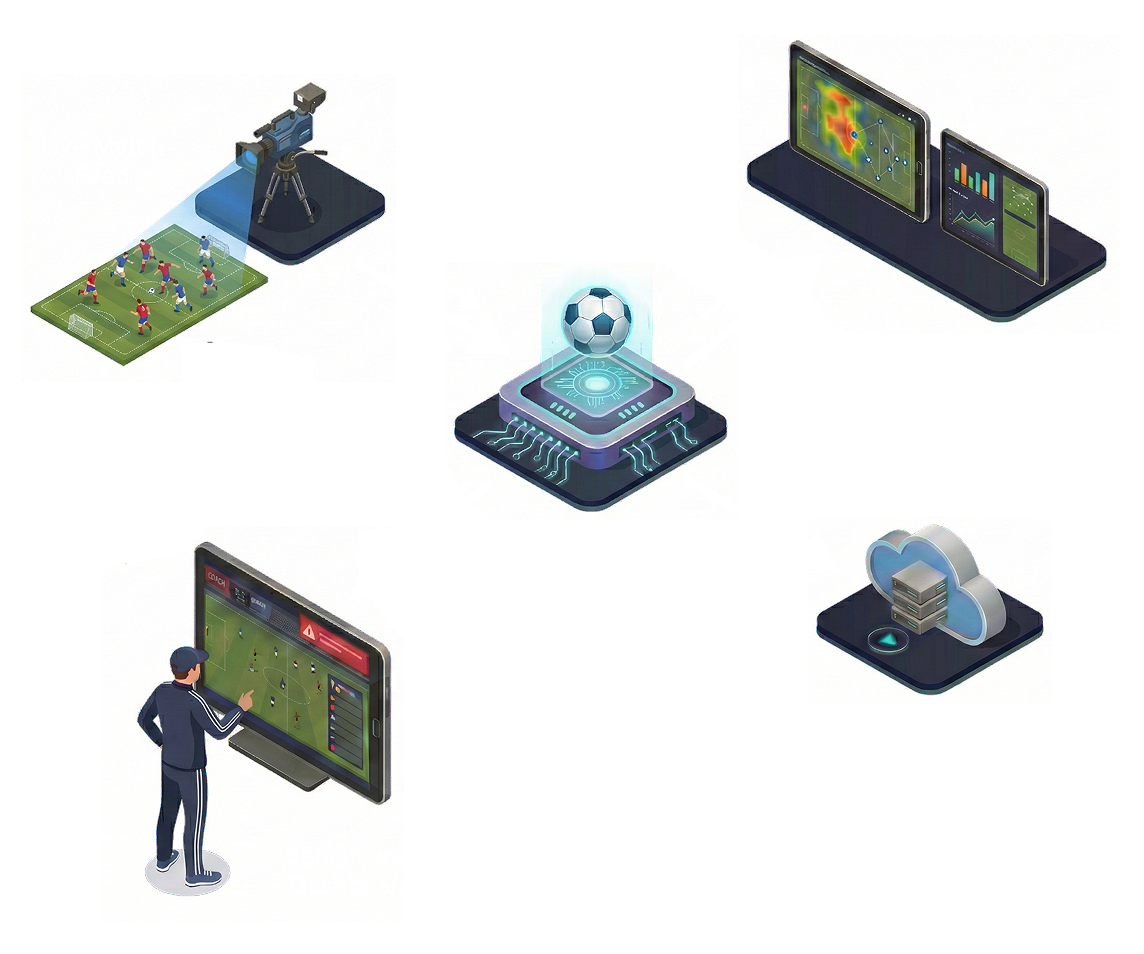
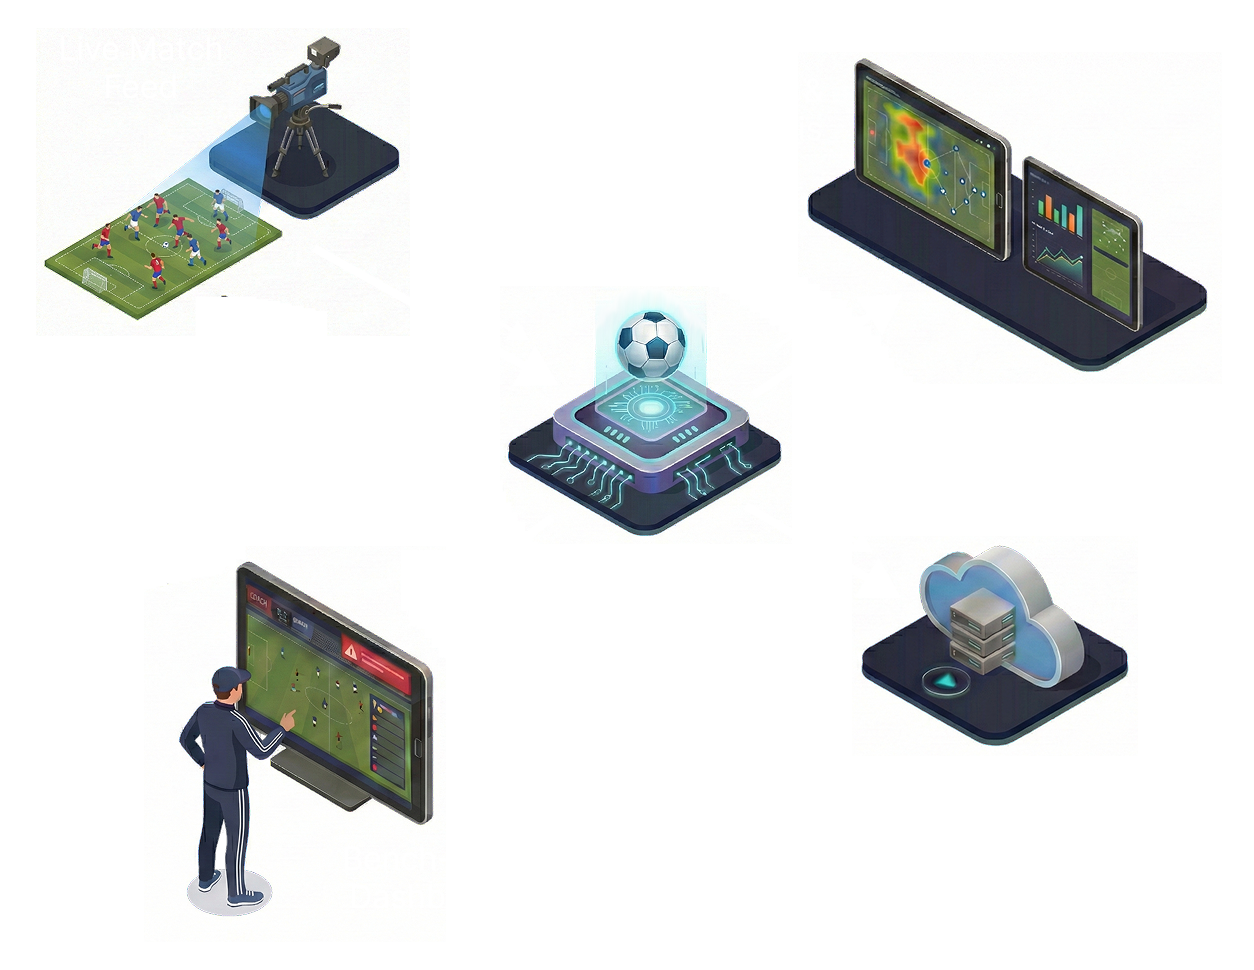
better graphs

diff --git a/src/views/HomeView.vue b/src/views/HomeView.vue
@@ -19,6 +19,7 @@ import altoTamega from '@/assets/img/alto-tamega.png'
 import broadcastBg from '@/assets/img/broadcast-bg.png'
 import coachBg from '@/assets/img/coach-bg.png'
 
+import analystBg from '@/assets/img/analyst-bg.png'
 import liveDashboardBg from '@/assets/img/live-dashboard.png'
 import coachAndAssistantBg from '@/assets/img/coach-&-assistant.png'
 import socialContentBg from '@/assets/img/social-content-bg.png'
@@ -51,7 +52,7 @@ const emit = defineEmits<{
             </h1>
 
             <p class="mt-5 om-p text-lg">
-                  One video feed, no hardware required. OmniMetrics turns live match video into low-latency insights for
+                  One video feed, no hardware required. OmniMetrics turns live match video into low-latency metrics and insights for
                   football coaches and broadcasters.
             </p>
 
@@ -69,7 +70,7 @@ const emit = defineEmits<{
                 class="rounded-2xl bg-gradient-to-r from-white/90 to-sky-400/80 p-4 text-om-bg shadow-soft"
               >
                 <div class="text-sm font-semibold">Real-Time</div>
-                <div class="mt-1 text-sm text-om-bg">Low-Latency Signals</div>
+                <div class="mt-1 text-sm text-om-bg">Low-Latency Metrics</div>
               </div>
 
               <div
@@ -150,7 +151,7 @@ const emit = defineEmits<{
                 </div>
 
                 <div
-                  class="mt-3 rounded-full px-6 sm:px-12 py-2 text-sm sm:text-lg font-semibold tracking-wider sm:tracking-widest uppercase bg-gradient-to-r from-[#5C7BE3] to-[#0B1A33] text-white shadow-[0_10px_30px_rgba(0,0,0,0.45)] text-center max-w-full"
+                  class="mt-3 rounded-full px-6 sm:px-12 py-2 text-sm sm:text-lg font-semibold tracking-wider sm:tracking-widest uppercase bg-gradient-to-r from-secondary to-accent text-white shadow-[0_10px_30px_rgba(0,0,0,0.45)] text-center max-w-full"
                 >
                   AI COACH ASSISTANT
                 </div>
@@ -203,7 +204,7 @@ const emit = defineEmits<{
                 </div>
 
                 <div
-                  class="mt-3 rounded-full px-6 sm:px-12 py-2 text-sm sm:text-lg font-semibold tracking-wider sm:tracking-widest uppercase bg-gradient-to-r from-[#5C7BE3] to-[#0B1A33] text-white shadow-[0_10px_30px_rgba(0,0,0,0.45)] text-center max-w-full"
+                  class="mt-3 rounded-full px-6 sm:px-12 py-2 text-sm sm:text-lg font-semibold tracking-wider sm:tracking-widest uppercase bg-gradient-to-r from-secondary to-accent text-white shadow-[0_10px_30px_rgba(0,0,0,0.45)] text-center max-w-full"
                 >
                   AI BROADCAST ASSISTANT
                 </div>
@@ -281,12 +282,13 @@ const emit = defineEmits<{
               <div class="om-card p-5">
                 <div class="flex items-start justify-between gap-4">
                   <div>
-                    <div class="font-semibold">Understanding</div>
+                    <div class="font-semibold">Reasoning</div>
                     <div class="mt-1 text-sm text-om-muted">
-                      Converting movement into live tactical signals: phases,
+                      Converting movement into live tactical signals: metrics, phases,
                       pressure, shape breaks, and key in-game events.
                     </div>
                     <div class="mt-3 flex flex-wrap gap-2">
+                      <span class="om-pill">Metrics</span>
                       <span class="om-pill">Phases</span>
                       <span class="om-pill">Events</span>
                       <span class="om-pill">Tactical context</span>
@@ -307,7 +309,7 @@ const emit = defineEmits<{
                     <div class="mt-3 flex flex-wrap gap-2">
                       <span class="om-pill">Dashboards</span>
                       <span class="om-pill">Broadcast Overlays</span>
-                      <span class="om-pill">Social media</span>
+                      <span class="om-pill">Social Media</span>
                       <span class="om-pill">APIs</span>
                     </div>
                   </div>
@@ -326,7 +328,7 @@ const emit = defineEmits<{
             <img
               :src="pipelineDiagram"
               alt="Pipeline diagram"
-              class="rounded-lg border-2 border-om-surface2 shadow-lg"
+              class="rounded-lg border-2 border-om-surface2 shadow-lg sm:mt-24"
             />
           </div>
         </div>
@@ -369,7 +371,7 @@ const emit = defineEmits<{
 
           <div class="om-card group relative overflow-hidden p-6">
             <img
-              :src="broadcastBg"
+              :src="analystBg"
               alt="Broadcast Overlays"
               aria-hidden="true"
               class="pointer-events-none absolute inset-0 h-full w-full object-cover opacity-10 transition-opacity duration-300 group-hover:opacity-20"
